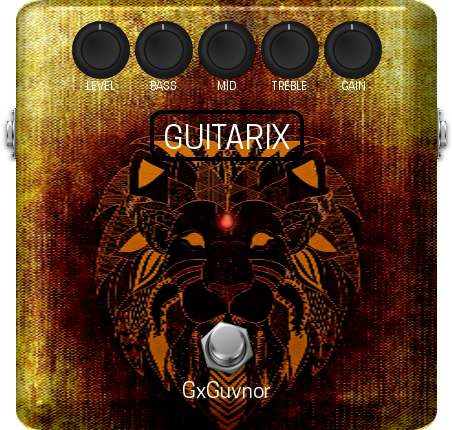
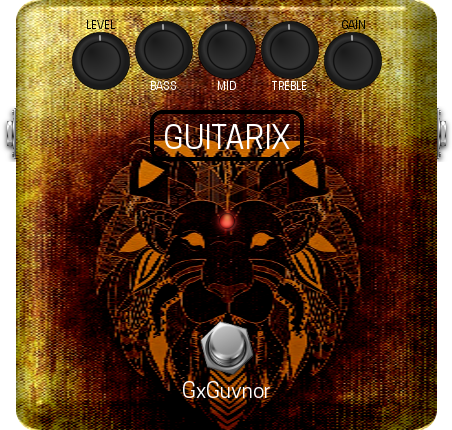
* reworked MOD UI

Changed region(s): [[0.7124, 0.0302, 0.8673, 0.2116], [0.1549, 0.0302, 0.3097, 0.2116]]

diff --git a/MOD/modgui/stylesheet-gxguvnor.css b/MOD/modgui/stylesheet-gxguvnor.css
@@ -187,6 +187,9 @@
 .mod-pedal-boxy{{{cns}}} .top {
     margin-top:0px !important;
 }
+.mod-pedal-boxy{{{cns}}} .bottom {
+    margin-bottom:0px !important;
+}
 
 .mod-pedal-boxy{{{cns}}}.mod-one-footswitch-presets .mod-control-group {
     margin:10px !important;
@@ -202,11 +205,34 @@
     position:relative;
 }
 
+.mod-pedal-boxy{{{cns}}} .mod-control-group .mod-bottom-knob {
+    overflow:hidden;
+    position:relative;
+    margin-bottom:0px !important;
+}
+
 .mod-pedal-boxy{{{cns}}} .mod-control-group .mod-knob > span.mod-knob-title {
     bottom:0px;
     display:block;
     font-size:11px;
     font-weight:bold;
+    height:12px;
+    left:0;
+    line-height:1;
+    margin:0;
+    overflow:hidden;
+    padding:0;
+    position:absolute;
+    right:0;
+    text-transform:uppercase;
+}
+
+.mod-pedal-boxy{{{cns}}} .mod-control-group .mod-bottom-knob > span.mod-knob-top-title {
+    top:0px;
+    display:block;
+    font-size:11px;
+    font-weight:bold;
+    color:black;
     height:12px;
     left:0;
     line-height:1;
@@ -269,9 +295,18 @@
     width:60px;
     margin:0 auto;
 }
+.mod-pedal-boxy{{{cns}}}.mod-five-knobs .mod-control-group .mod-bottom-knob .mod-knob-image {
+    background-image:url(/resources/knobs/lata/lata.png{{{ns}}});
+    background-repeat:no-repeat;
+    background-size:auto 60px;
+    height:60px;
+    width:60px;
+    margin:11px auto;
+}
 .mod-pedal-boxy{{{cns}}}.mod-three-knobs .mod-control-group .mod-knob,
 .mod-pedal-boxy{{{cns}}}.mod-four-knobs .mod-control-group .mod-knob,
 .mod-pedal-boxy{{{cns}}}.mod-five-knobs .mod-control-group .mod-knob,
+.mod-pedal-boxy{{{cns}}}.mod-five-knobs .mod-control-group .mod-bottom-knob,
 .mod-pedal-boxy{{{cns}}}.mod-six-knobs .mod-control-group .mod-knob,
 .mod-pedal-boxy{{{cns}}}.mod-seven-knobs .mod-control-group .mod-knob,
 .mod-pedal-boxy{{{cns}}}.mod-eight-knobs .mod-control-group .mod-knob {
@@ -1186,5 +1221,7 @@
 }.mod-pedal-boxy{{{cns}}} .mod-control-group.mod-green .mod-knob .mod-knob-image {
     background-image:url(/resources/knobs/boxy/green.png{{{ns}}});
 }.mod-pedal-boxy{{{cns}}} .mod-control-group.mod-cairo .mod-knob .mod-knob-image {
+    background-image:url(/resources/knobs/boxy/cairo.png{{{ns}}});
+}.mod-pedal-boxy{{{cns}}} .mod-control-group.mod-cairo .mod-bottom-knob .mod-knob-image {
     background-image:url(/resources/knobs/boxy/cairo.png{{{ns}}});
 }

diff --git a/MOD/modgui/icon-gxguvnor.html b/MOD/modgui/icon-gxguvnor.html
@@ -4,12 +4,36 @@
     <div class="mod-plugin-name"><h1>{{label}}</h1></div>
     <div class="mod-light on" mod-role="bypass-light"></div>
     <div class="mod-control-group mod-{{knob}} clearfix">
-        {{#controls}}
+        {{#controls.0}}
+        <div class="mod-bottom-knob" title="{{comment}}">
+            <span class="mod-knob-top-title">{{name}}</span>
+            <div class="mod-knob-image" mod-role="input-control-port" mod-port-symbol="{{symbol}}"></div>
+        </div>
+        {{/controls.0}}
+        {{#controls.1}}
         <div class="mod-knob" title="{{comment}}">
             <div class="mod-knob-image" mod-role="input-control-port" mod-port-symbol="{{symbol}}"></div>
             <span class="mod-knob-title">{{name}}</span>
         </div>
-        {{/controls}}
+        {{/controls.1}}
+        {{#controls.2}}
+        <div class="mod-knob" title="{{comment}}">
+            <div class="mod-knob-image" mod-role="input-control-port" mod-port-symbol="{{symbol}}"></div>
+            <span class="mod-knob-title">{{name}}</span>
+        </div>
+        {{/controls.2}}
+        {{#controls.3}}
+        <div class="mod-knob" title="{{comment}}">
+            <div class="mod-knob-image" mod-role="input-control-port" mod-port-symbol="{{symbol}}"></div>
+            <span class="mod-knob-title">{{name}}</span>
+        </div>
+        {{/controls.3}}
+        {{#controls.4}}
+        <div class="mod-bottom-knob" title="{{comment}}">
+            <span class="mod-knob-top-title">{{name}}</span>
+            <div class="mod-knob-image" mod-role="input-control-port" mod-port-symbol="{{symbol}}"></div>
+        </div>
+        {{/controls.4}}
     </div>
     <div class="mod-footswitch" mod-role="bypass"></div>
     <div class="mod-pedal-input">
